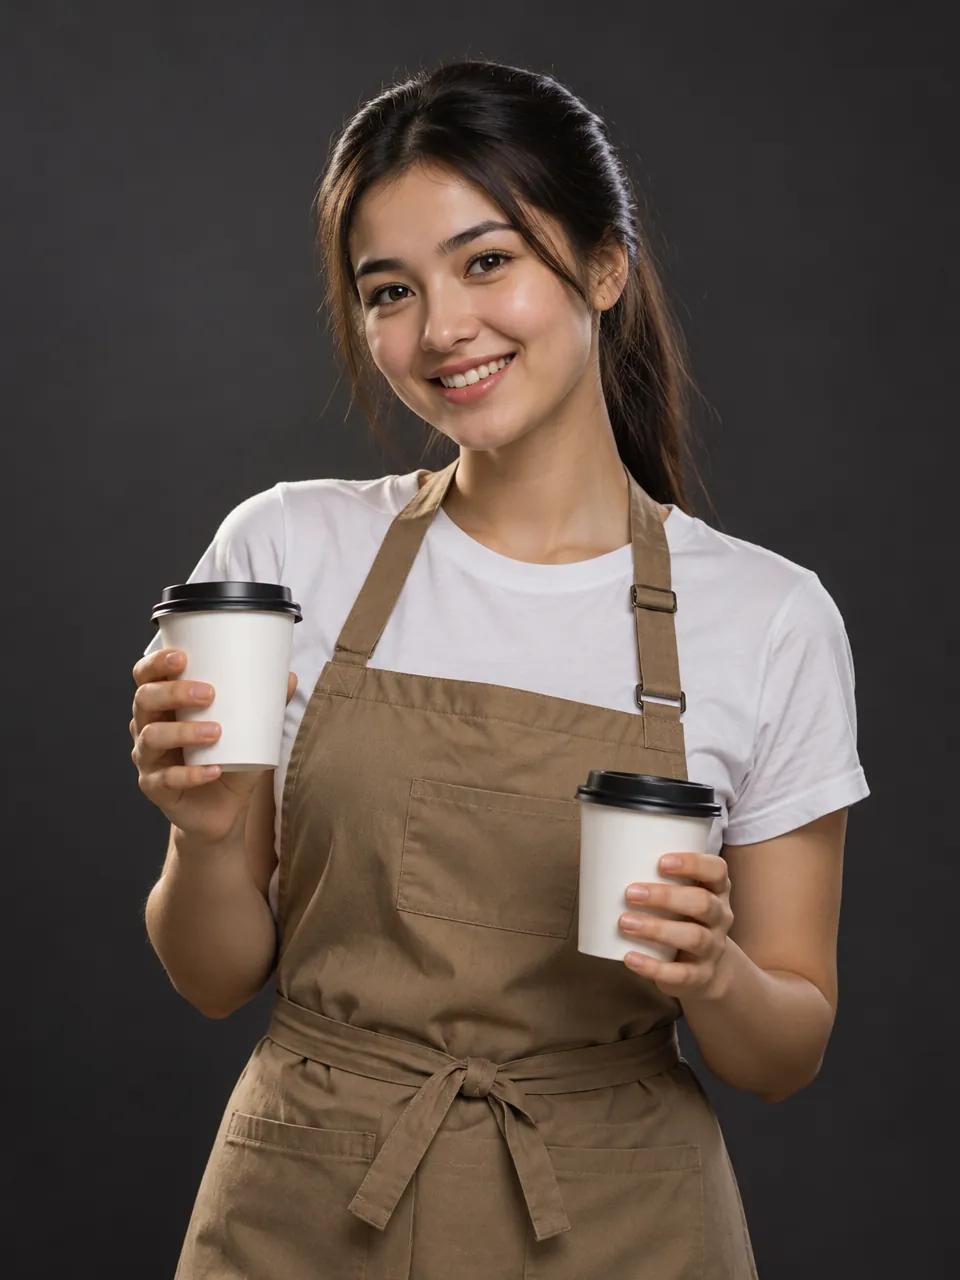
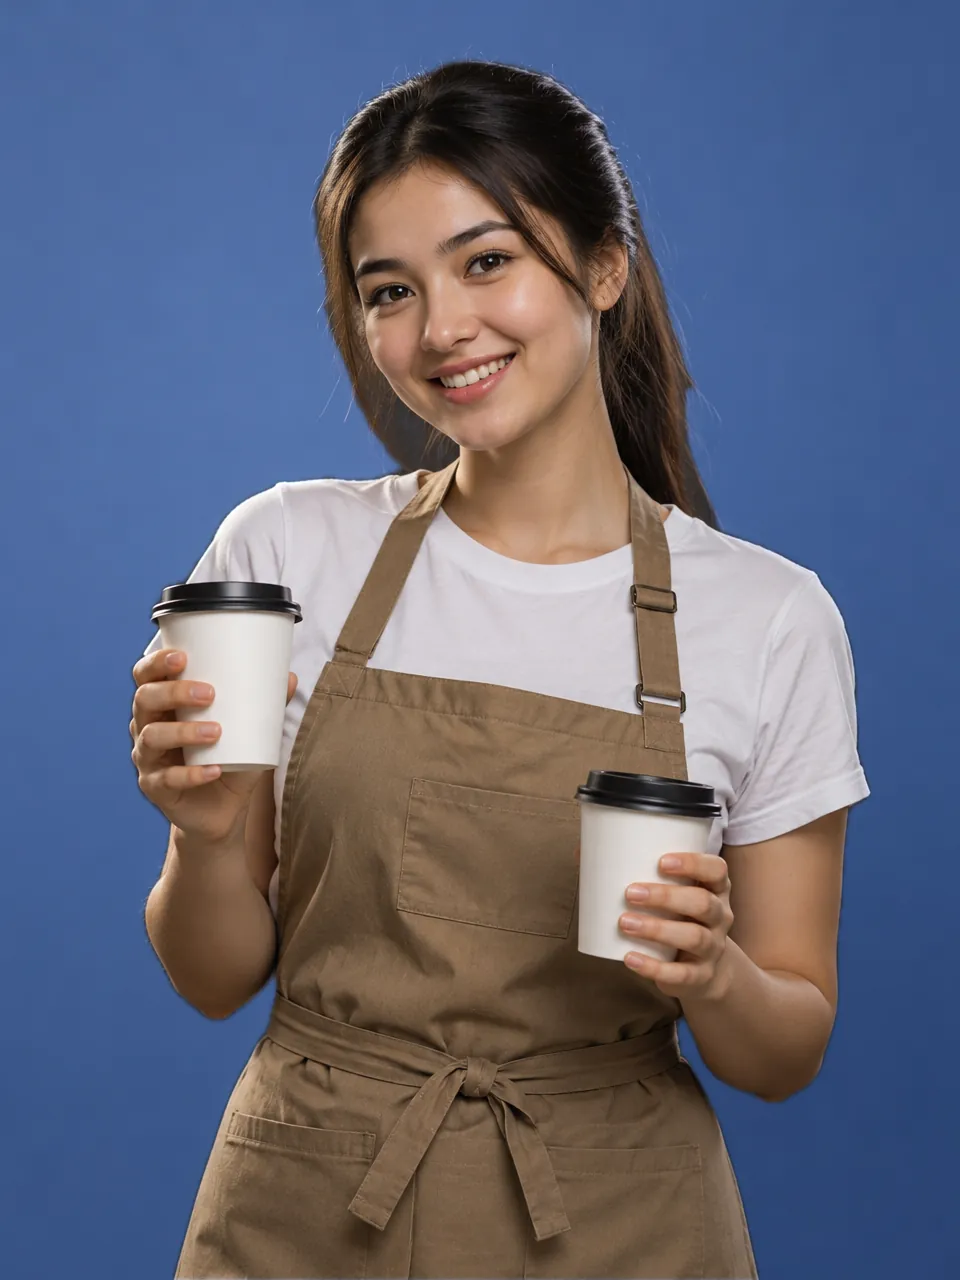
One brand palette for all pages, contractor portraits moved to cobalt
The founder prefers a single cobalt style across business and contractor
pages, so the lime theme is removed. The twelve contractor portraits keep
their people: Apple Vision cut each subject out and the photo was moved to
the cobalt backdrop of the business series, edges recomputed so hair keeps
no dark fringe.

diff --git a/components/site-header.tsx b/components/site-header.tsx
@@ -54,12 +54,7 @@ function ProductLink({
       onClick={onNavigate}
       className={`flex items-start gap-3 rounded-chip p-3 transition-colors hover:bg-surface-2 ${active ? "bg-surface-2" : ""}`}
     >
-      {/* Contractor products carry the warm palette, business ones the brand one */}
-      <span
-        className={`grid size-10 shrink-0 place-items-center rounded-chip bg-accent-soft text-accent-text ${
-          audienceOf[page] === "workers" ? "theme-worker" : ""
-        }`}
-      >
+      <span className="grid size-10 shrink-0 place-items-center rounded-chip bg-accent-soft text-accent-text">
         <Icon size={20} weight="bold" aria-hidden />
       </span>
       <span>
@@ -111,8 +106,6 @@ export function SiteHeader({
   const [menu, setMenu] = useState<Audience | null>(null);
   const headerRef = useRef<HTMLElement>(null);
   const uid = useId();
-  // Contractor pages get their own palette for the main button.
-  const ctaTheme = audienceOf[page] === "workers" ? "theme-worker" : "";
 
   useMotionValueEvent(scrollY, "change", (y) => {
     const next = y > 12;
@@ -224,7 +217,7 @@ export function SiteHeader({
 
           <div className="flex items-center gap-2">
             <LanguageSwitch t={t} locale={locale} page={page} />
-            <div className={`hidden sm:block ${ctaTheme}`}>
+            <div className="hidden sm:block">
               <Button href={cta.href}>{cta.label}</Button>
             </div>
             <button
@@ -268,7 +261,7 @@ export function SiteHeader({
                   </div>
                 </motion.div>
               ))}
-              <div className={ctaTheme} onClick={() => setOpen(false)}>
+              <div onClick={() => setOpen(false)}>
                 <Button href={cta.href} size="lg" className="w-full">
                   {cta.label}
                 </Button>

diff --git a/app/globals.css b/app/globals.css
@@ -44,50 +44,6 @@
   }
 }
 
-/* Palette for the contractor-facing pages: lime accent with near-black, after
-   the Gold Apple pairing the founder likes. Components keep using the same
-   utilities (bg-accent, bg-surface...), the tokens change under them. Lime is
-   too light for text on white, so accent-text is a dark olive. */
-.theme-worker {
-  --bg: #f3f4ef;
-  --surface: #fcfdf8;
-  --surface-2: #e8eae1;
-  --ink: #121410;
-  --ink-2: #585d50;
-  --line: #dde0d4;
-  --accent: #dcff00;
-  --accent-hover: #e5ff40;
-  --on-accent: #121410;
-  --accent-soft: #eefab8;
-  --accent-text: #4b6500;
-  --deep: #121410;
-  --deep-2: #20231b;
-  --on-deep: #f4f6ee;
-  --on-deep-2: #b3b8a7;
-  --shadow-tint: 80 20% 10%;
-  --photo-bg: #2a2c27;
-}
-
-@media (prefers-color-scheme: dark) {
-  .theme-worker {
-    --bg: #0e0f0c;
-    --surface: #171913;
-    --surface-2: #22251d;
-    --ink: #f2f4ec;
-    --ink-2: #a6ac99;
-    --line: #2b2f25;
-    --accent: #dcff00;
-    --accent-hover: #e5ff40;
-    --on-accent: #121410;
-    --accent-soft: #283210;
-    --accent-text: #dcff00;
-    --deep: #1a1d15;
-    --deep-2: #262a1f;
-    --on-deep: #f4f6ee;
-    --on-deep-2: #b3b8a7;
-    --shadow-tint: 80 30% 3%;
-  }
-}
 
 @theme inline {
   --color-bg: var(--bg);

diff --git a/components/jobs/jobs-home.tsx b/components/jobs/jobs-home.tsx
@@ -9,14 +9,14 @@ import { WorkerBenefits } from "@/components/jobs/worker-benefits";
 import { GigBoard } from "@/components/jobs/gig-board";
 import { Audiences } from "@/components/jobs/audiences";
 
-// Bajar Gigs for one language: /jobs/, /uz/jobs/, /en/jobs/. Contractor side, warm palette.
+// Bajar Gigs for one language: /jobs/, /uz/jobs/, /en/jobs/. Contractor side of the marketplace.
 export function JobsHome({ locale }: { locale: Locale }) {
   const t = dictionaries[locale];
   const j = jobsDictionaries[locale];
   return (
     <>
       <SiteHeader t={t} locale={locale} page="jobs" cta={{ label: j.hero.primary, href: "#gigs" }} />
-      <main className="theme-worker bg-bg text-ink">
+      <main>
         <JobsHero t={t} j={j} hireHref={pagePath(locale, "hire")} />
         {/* Companies that land here are sent to Bajar Hire */}
         <ProductBand {...j.teaser} href={pagePath(locale, "hire")} tone="deep" />

diff --git a/components/getpaid/getpaid-home.tsx b/components/getpaid/getpaid-home.tsx
@@ -8,14 +8,14 @@ import { GetPaidHero } from "@/components/getpaid/getpaid-hero";
 import { GetPaidBenefits } from "@/components/getpaid/getpaid-benefits";
 
 // "Get paid" for one language: /get-paid/, /uz/get-paid/, /en/get-paid/.
-// Contractor side of Bajar Payouts, in the warm palette.
+// Contractor side of Bajar Payouts.
 export function GetPaidHome({ locale }: { locale: Locale }) {
   const t = dictionaries[locale];
   const g = getPaidDictionaries[locale];
   return (
     <>
       <SiteHeader t={t} locale={locale} page="getpaid" cta={{ label: g.hero.primary, href: "#how" }} />
-      <main className="theme-worker bg-bg text-ink">
+      <main>
         <GetPaidHero g={g} jobsHref={pagePath(locale, "jobs")} />
         <GetPaidBenefits t={t} g={g} />
         <HowItWorks steps={g.steps} />
